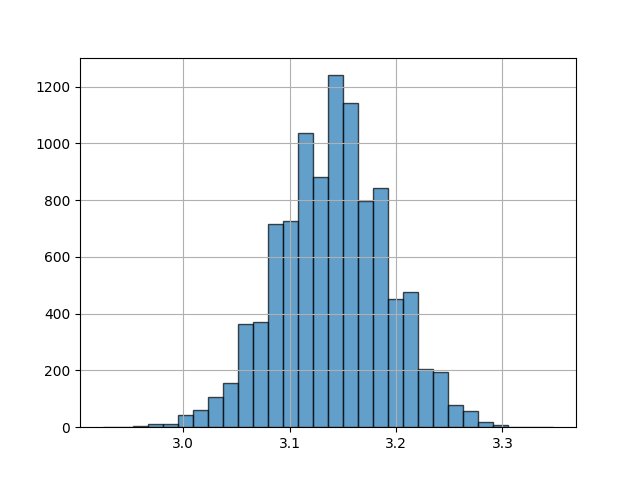
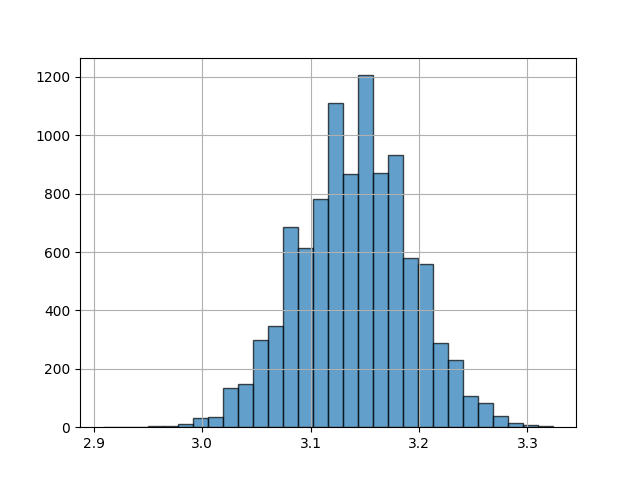
add Makefile

diff --git a/src/main.cpp b/src/main.cpp
@@ -1,0 +1,81 @@
+#include <fstream>
+#include <iostream>
+#include <random>
+#include <fstream>
+#include <string>
+#include <vector>
+#include <iomanip>
+#include <limits>
+#include <chrono>
+
+#include "../random_algo/lcg.hpp"
+
+using namespace std;
+using ll=long long;
+
+bool is_inside(double x,double y){
+    if(x*x+y*y <= 1)return true;
+    return false;
+}
+
+ll get_next_rand(ll now, Random* rand_){
+    return rand_->random(now);
+}
+
+#define LCGMAX 2147483646
+double montecarlo(ll seed,ll loop_num, Random* rand_){
+    ll res=0;
+    ll n=seed;
+    for(ll i=0;i<loop_num;i++){
+        double r1=((double)n)/((double)LCGMAX);
+        n=get_next_rand(n, rand_);
+        double r2=((double)n)/((double)LCGMAX);
+        n=get_next_rand(n, rand_);
+        if(is_inside(r1,r2)){
+            res++;
+        }
+    }
+    return res;
+}
+
+void write_to_file(string file_name, vector<double> results){
+    int d = numeric_limits<double>::max_digits10;
+    ofstream outputfile(file_name);
+    for(ll i=0;i<results.size();i++){
+        outputfile << setprecision(d) << to_string(results[i]) ;
+        if(i!=results.size()-1)
+            outputfile << ",";
+    }
+    outputfile << endl;
+    outputfile.close();
+}
+
+vector<double> multi_montecarlo(ll repeat_num, ll loop_num){
+    Random* rand_ = new LCG();
+    std::random_device seed_gen;
+    vector<double> res;
+    for(int i=0;i<repeat_num;i++){       
+        ll seed= seed_gen();
+        ll in = montecarlo(seed,loop_num, rand_);
+        double calculated_pi = ((double) in*4) / ((double) loop_num);
+        res.push_back(calculated_pi);
+    }
+    delete rand_;
+    return res;
+}
+
+int main()
+{
+    chrono::system_clock::time_point start, end;
+    start = chrono::system_clock::now();
+
+    ll repeat_num = 10000;
+    ll loop_num_per_montecarlo = 100*1000 / 100;
+    vector<double> res = multi_montecarlo(repeat_num,loop_num_per_montecarlo);
+    string output_file_name = "output/output.txt";
+    write_to_file(output_file_name,res);
+
+    end = chrono::system_clock::now();
+    double time = static_cast<double>(chrono::duration_cast<chrono::microseconds>(end-start).count()/1000.0);
+    cout << time <<"ms"<<endl;
+}

diff --git a/src/draw_graph.py b/src/draw_graph.py
@@ -1,0 +1,11 @@
+import pandas as pd
+import numpy as np
+import matplotlib.pyplot as plt
+
+results = []
+with open("output/output.txt", "r") as f:
+    line = f.readline()
+    results = [float(result) for result in line.strip().split(",")]
+plt.hist(results, bins=30, edgecolor="black", alpha=0.7)
+plt.grid(True)
+plt.savefig("output/output.png")
